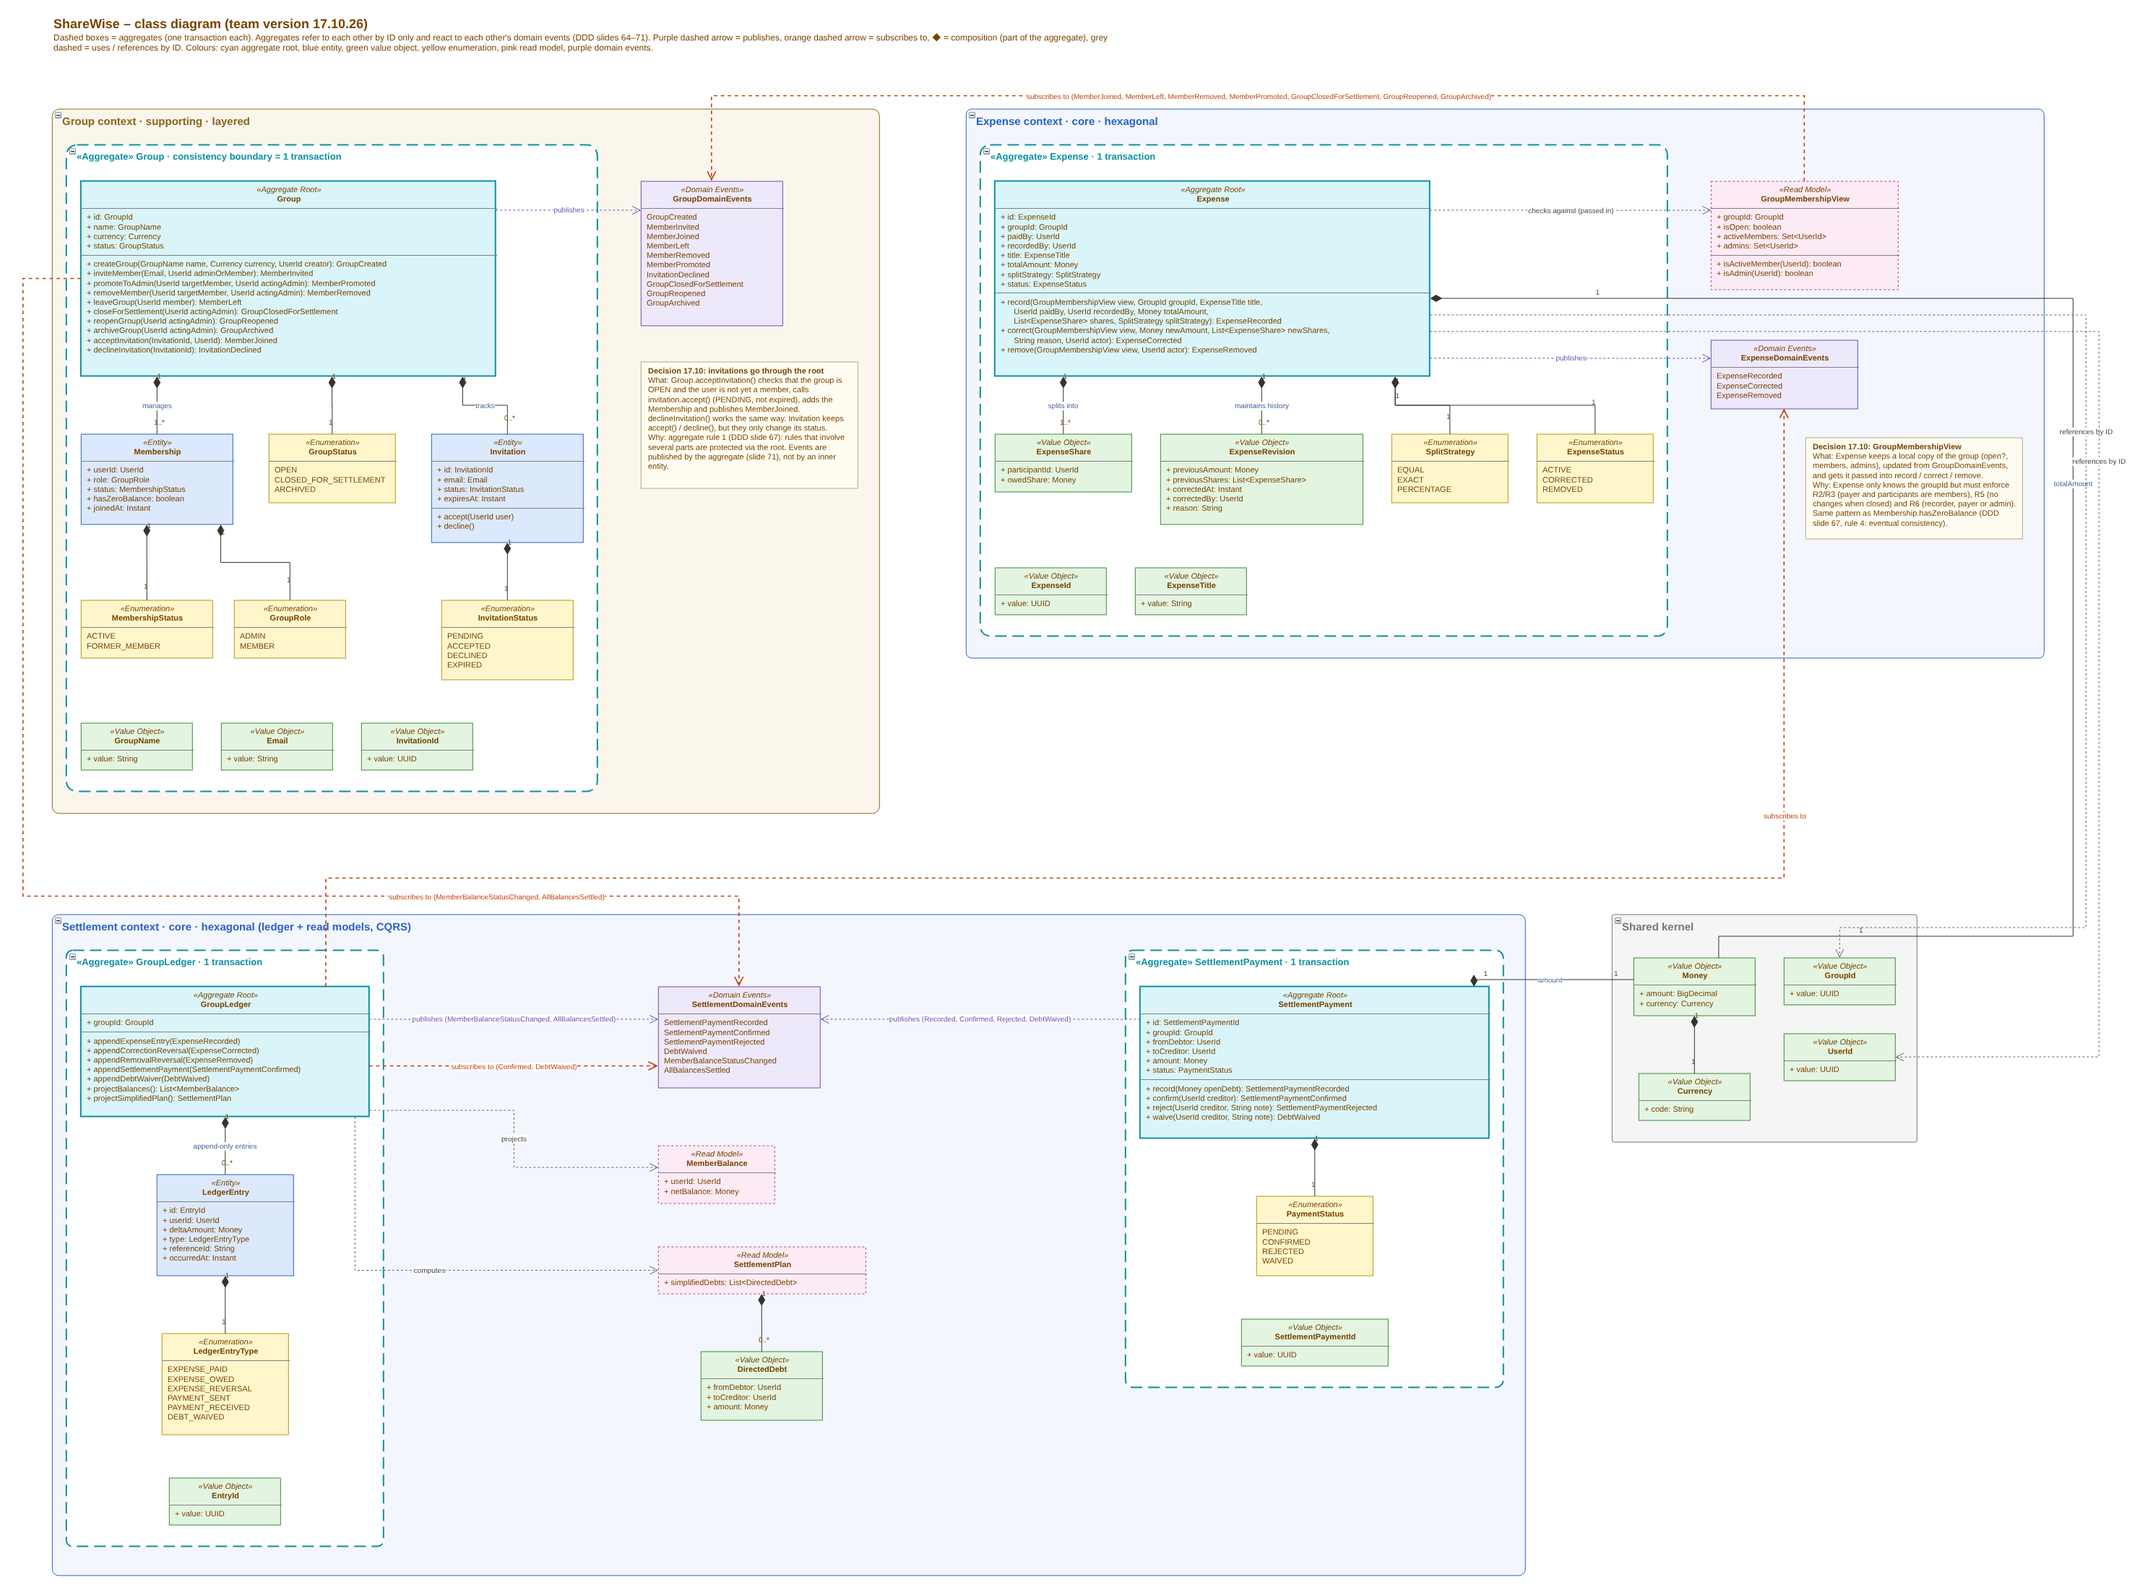
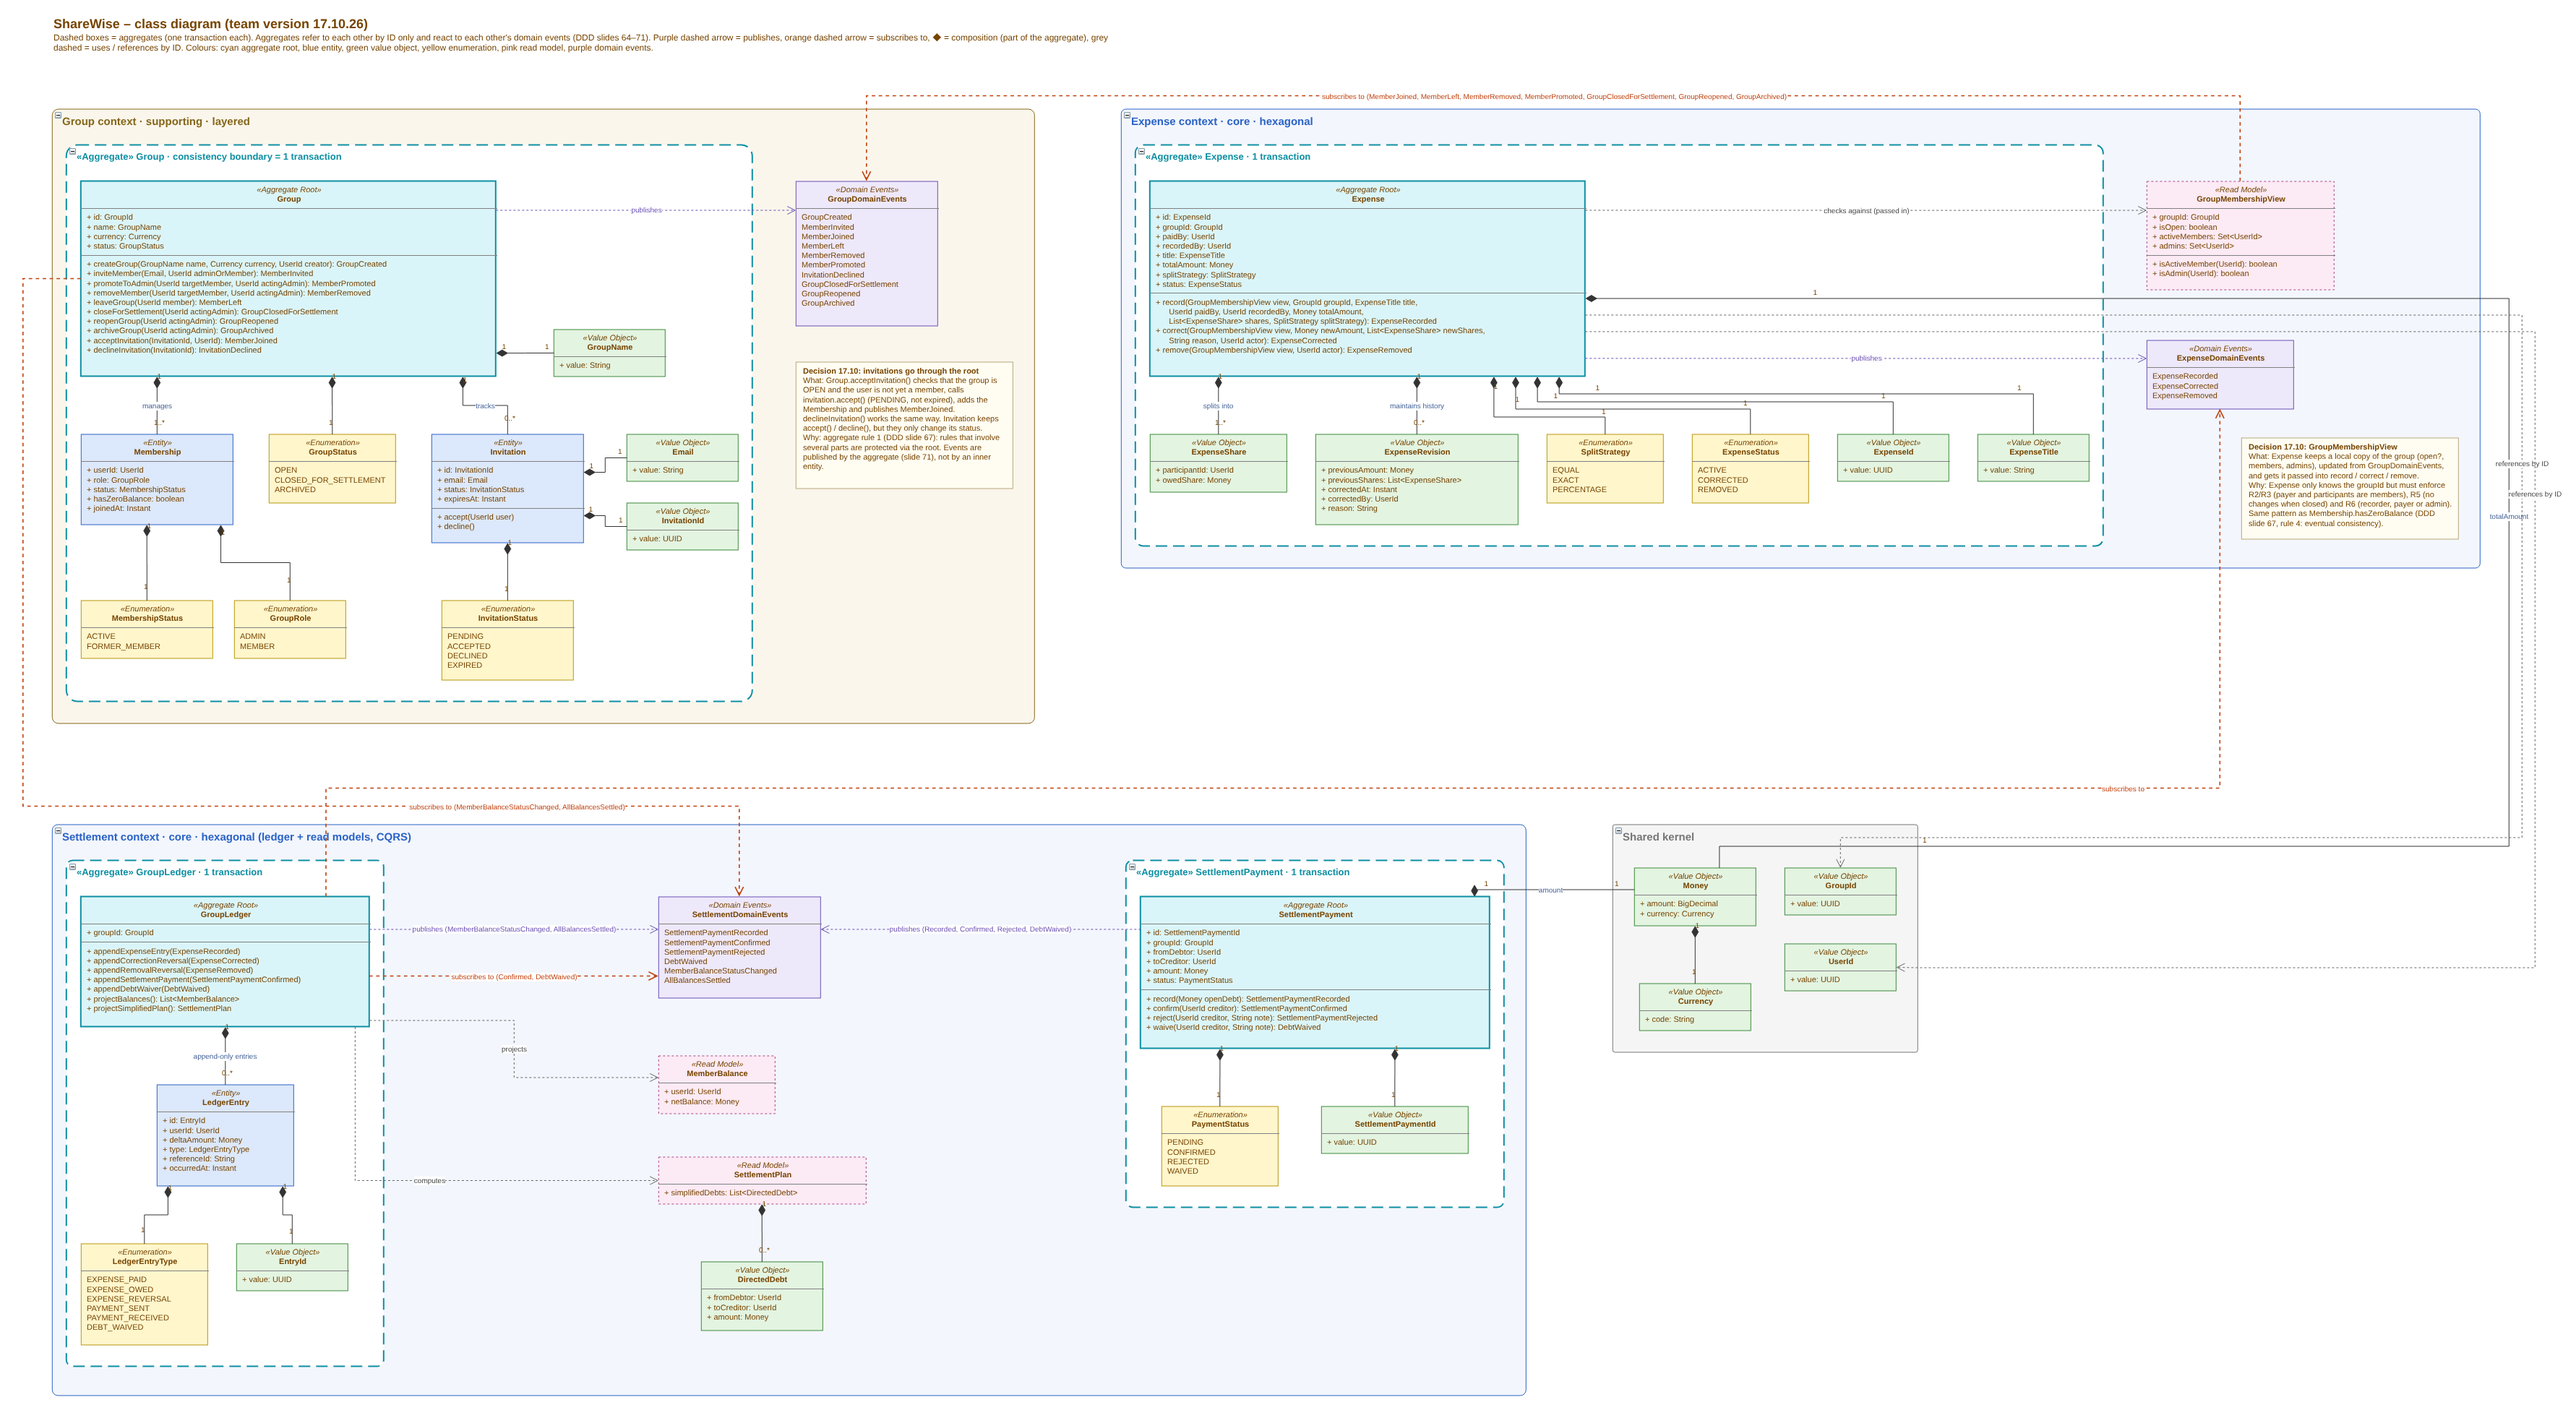
Domain model: connect value objects to the classes that use them
GroupName -> Group, Email and InvitationId -> Invitation, ExpenseId and
ExpenseTitle -> Expense, EntryId -> LedgerEntry, SettlementPaymentId ->
SettlementPayment (Currency -> Money already). Boxes moved next to their
owners; Expense row lines get separate entry points and levels.

Claude-Session: https://claude.ai/code/session_01XWcDcA4MpQE7WFgrEA8CzJ

diff --git a/work/tools/gen_team_diagram.py b/work/tools/gen_team_diagram.py
@@ -182,6 +182,45 @@ def comp(part, whole, label="", mult=("1", "1")):
     edge(part, whole, COMP, label, exit=(0.5, 0), entry=(fx, 1), mult=mult)
 
 
+def comp_row(parts, whole, labels=None, mults=None):
+    """Compositions from a row of parts up into one whole: every line gets its own entry point and its own
+    horizontal level, so lines that have to move sideways never overlap or cross."""
+    wx, wy, ww, wh = box[whole]
+    lo, hi = wx + 0.06 * ww, wx + 0.94 * ww
+    centers = [box[p][0] + box[p][2] / 2 for p in parts]
+    # entry x: straight above the part where possible, otherwise packed 30px apart from the right end
+    entries, used = [], hi + 30
+    for cx in reversed(centers):
+        ex = min(cx, hi, used - 30)
+        entries.insert(0, max(lo, ex)); used = entries[0]
+    top = min(box[p][1] for p in parts)
+    k = 0
+    for i, p in enumerate(parts):
+        cx, ex = centers[i], entries[i]
+        lbl = (labels or {}).get(p, ""); m = (mults or {}).get(p, ("1", "1"))
+        if abs(cx - ex) < 2:
+            edge(p, whole, COMP, lbl, exit=(0.5, 0), entry=((ex - wx) / ww, 1), mult=m)
+        else:
+            k += 1
+    # parts that need a sideways step: the further right, the higher the step (no crossings)
+    side_parts = [i for i in range(len(parts)) if abs(centers[i] - entries[i]) >= 2]
+    n = len(side_parts)
+    for rank, i in enumerate(side_parts):
+        p = parts[i]; cx, ex = centers[i], entries[i]
+        gap_top, gap_bot = wy + wh + 14, top - 14
+        y = gap_bot - (gap_bot - gap_top) * (rank + 1) / (n + 1)
+        lbl = (labels or {}).get(p, ""); m = (mults or {}).get(p, ("1", "1"))
+        edge(p, whole, COMP, lbl, exit=(0.5, 0), entry=((ex - wx) / ww, 1), points=[(cx, y), (ex, y)], mult=m)
+
+
+def side(part, whole, fy=None):
+    """Composition from a part placed to the right of its whole: horizontal line into the whole's right side."""
+    px, py, pw, ph = box[part]; wx, wy, ww, wh = box[whole]
+    y = py + ph / 2
+    fy = fy if fy is not None else min(0.95, max(0.05, (y - wy) / wh))
+    edge(part, whole, COMP, "", exit=(0, 0.5), entry=(1, fy), mult=("1", "1"))
+
+
 def center_under(parent_name, w):
     x, _, pw, _ = box[parent_name]
     return x + (pw - w) / 2
@@ -205,12 +244,12 @@ cls("MembershipStatus", "AG", 20, r3)
 cls("GroupRole", "AG", 20 + msw + 30, r3)
 isw, _ = size("InvitationStatus")
 cls("InvitationStatus", "AG", int(center_under("Invitation", isw) - box["AG"][0]), r3)
-r4 = r3 + max(msh, size("InvitationStatus")[1]) + 60
-x = 20
-for nm in ("GroupName", "Email", "InvitationId"):
-    w, _ = cls(nm, "AG", x, r4); x += w + 40
-ag_w = max(20 + gw, 20 + mw + GAP + sw + GAP + iw, x - 40) + 20
-ag_h = r4 + max(size(nm)[1] for nm in ("GroupName", "Email", "InvitationId")) + 30
+gnw, gnh = cls("GroupName", "AG", 20 + gw + 80, 50 + gh - gnh_ if (gnh_ := size("GroupName")[1]) else 0)
+inv_x = 20 + mw + GAP + sw + GAP
+emw, emh = cls("Email", "AG", inv_x + iw + 60, r2)
+idw, idh = cls("InvitationId", "AG", inv_x + iw + 60, r2 + emh + 30)
+ag_w = max(20 + gw + 80 + gnw, inv_x + iw + 60 + max(emw, idw)) + 20
+ag_h = r3 + max(msh, size("InvitationStatus")[1]) + 30
 cells[[i for i, c in enumerate(cells) if 'id="AG"' in c][0]] = cells[[i for i, c in enumerate(cells) if 'id="AG"' in c][0]].replace('width="10" height="10"', f'width="{ag_w}" height="{ag_h}"')
 box["AG"] = (box["AG"][0], box["AG"][1], ag_w, ag_h)
 gdw, gdh = cls("GroupDomainEvents", "G", 20 + ag_w + 60, 100)
@@ -234,6 +273,9 @@ comp("Invitation", "Group", "tracks", ("0..*", "1"))
 comp("MembershipStatus", "Membership")
 comp("GroupRole", "Membership")
 comp("InvitationStatus", "Invitation")
+side("GroupName", "Group")
+side("Email", "Invitation", 0.35)
+side("InvitationId", "Invitation", 0.75)
 gx, gy, gw_, gh_ = box["Group"]; ex_, ey_, ew_, eh_ = box["GroupDomainEvents"]
 edge("Group", "GroupDomainEvents", PUB, "publishes", exit=(1, (ey_ + 40 - gy) / gh_), entry=(0, 40 / eh_))
 
@@ -244,15 +286,11 @@ container("AE", "E", 20, 50, 10, 10, "«Aggregate» Expense · 1 transaction", *
 xw, xh = cls("Expense", "AE", 20, 50)
 r2 = 50 + xh + ROWGAP
 x = 20
-for nm in ("ExpenseShare", "ExpenseRevision", "SplitStrategy", "ExpenseStatus"):
+ROW2 = ("ExpenseShare", "ExpenseRevision", "SplitStrategy", "ExpenseStatus", "ExpenseId", "ExpenseTitle")
+for nm in ROW2:
     w, _ = cls(nm, "AE", x, r2); x += w + 40
-row2_w = x - 40
-r3 = r2 + max(size(nm)[1] for nm in ("ExpenseShare", "ExpenseRevision", "SplitStrategy", "ExpenseStatus")) + 60
-x = 20
-for nm in ("ExpenseId", "ExpenseTitle"):
-    w, _ = cls(nm, "AE", x, r3); x += w + 40
-ae_w = max(20 + xw, row2_w, x - 40) + 20
-ae_h = r3 + max(size(nm)[1] for nm in ("ExpenseId", "ExpenseTitle")) + 30
+ae_w = max(20 + xw, x - 40) + 20
+ae_h = r2 + max(size(nm)[1] for nm in ROW2) + 30
 i = [k for k, c in enumerate(cells) if 'id="AE"' in c][0]
 cells[i] = cells[i].replace('width="10" height="10"', f'width="{ae_w}" height="{ae_h}"'); box["AE"] = (box["AE"][0], box["AE"][1], ae_w, ae_h)
 RC = 20 + ae_w + 60                                  # right column of the Expense context
@@ -273,10 +311,8 @@ e_h = max(50 + ae_h, NY + NH) + 30
 i = [k for k, c in enumerate(cells) if 'id="E"' in c][0]
 cells[i] = cells[i].replace('width="10" height="10"', f'width="{e_w}" height="{e_h}"'); box["E"] = (E0[0], E0[1], e_w, e_h)
 
-comp("ExpenseShare", "Expense", "splits into", ("1..*", "1"))
-comp("ExpenseRevision", "Expense", "maintains history", ("0..*", "1"))
-comp("SplitStrategy", "Expense")
-comp("ExpenseStatus", "Expense")
+comp_row(list(ROW2), "Expense", labels={"ExpenseShare": "splits into", "ExpenseRevision": "maintains history"},
+         mults={"ExpenseShare": ("1..*", "1"), "ExpenseRevision": ("0..*", "1")})
 xx, xy, xw_, xh_ = box["Expense"]; ex_, ey_, ew_, eh_ = box["ExpenseDomainEvents"]
 y_pub = (max(xy, ey_) + min(xy + xh_, ey_ + eh_)) / 2           # level where Expense and its events box overlap
 edge("Expense", "ExpenseDomainEvents", PUB, "publishes", exit=(1, (y_pub - xy) / xh_), entry=(0, (y_pub - ey_) / eh_))
@@ -295,12 +331,11 @@ container("AL", "S", 20, 50, 10, 10, "«Aggregate» GroupLedger · 1 transaction
 lw, lh = cls("GroupLedger", "AL", 20, 50)
 lew, leh = size("LedgerEntry")
 cls("LedgerEntry", "AL", int(20 + (lw - lew) / 2), 50 + lh + ROWGAP)
-ltw, lth = size("LedgerEntryType")
-cls("LedgerEntryType", "AL", int(20 + (lw - ltw) / 2), 50 + lh + ROWGAP + leh + ROWGAP)
-eiw, eih = size("EntryId")
-y_ei = 50 + lh + ROWGAP + leh + ROWGAP + lth + 60
-cls("EntryId", "AL", int(20 + (lw - eiw) / 2), y_ei)
-al_w, al_h = lw + 40, y_ei + eih + 30
+ltw, lth = size("LedgerEntryType"); eiw, eih = size("EntryId")
+r3l = 50 + lh + ROWGAP + leh + ROWGAP
+cls("LedgerEntryType", "AL", 20, r3l)
+cls("EntryId", "AL", 20 + ltw + 40, r3l)
+al_w, al_h = lw + 40, r3l + max(lth, eih) + 30
 i = [k for k, c in enumerate(cells) if 'id="AL"' in c][0]
 cells[i] = cells[i].replace('width="10" height="10"', f'width="{al_w}" height="{al_h}"'); box["AL"] = (box["AL"][0], box["AL"][1], al_w, al_h)
 
@@ -316,12 +351,11 @@ mid_w = max(sde_w, mbw, spw, ddw)
 AP_X = MID + mid_w + 360
 container("AP", "S", AP_X, 50, 10, 10, "«Aggregate» SettlementPayment · 1 transaction", *AGG, dashed=True)
 pw, ph = cls("SettlementPayment", "AP", 20, 50)
-psw, psh = size("PaymentStatus")
-cls("PaymentStatus", "AP", int(20 + (pw - psw) / 2), 50 + ph + ROWGAP)
-spiw, spih = size("SettlementPaymentId")
-y_spi = 50 + ph + ROWGAP + psh + 60
-cls("SettlementPaymentId", "AP", int(20 + (pw - spiw) / 2), y_spi)
-ap_w, ap_h = pw + 40, y_spi + spih + 30
+psw, psh = size("PaymentStatus"); spiw, spih = size("SettlementPaymentId")
+row_w = psw + 60 + spiw
+cls("PaymentStatus", "AP", int(20 + (pw - row_w) / 2), 50 + ph + ROWGAP)
+cls("SettlementPaymentId", "AP", int(20 + (pw - row_w) / 2) + psw + 60, 50 + ph + ROWGAP)
+ap_w, ap_h = pw + 40, 50 + ph + ROWGAP + max(psh, spih) + 30
 i = [k for k, c in enumerate(cells) if 'id="AP"' in c][0]
 cells[i] = cells[i].replace('width="10" height="10"', f'width="{ap_w}" height="{ap_h}"'); box["AP"] = (box["AP"][0], box["AP"][1], ap_w, ap_h)
 s_w = AP_X + ap_w + 30
@@ -331,8 +365,10 @@ cells[i] = cells[i].replace('width="10" height="10"', f'width="{s_w}" height="{s
 
 comp("LedgerEntry", "GroupLedger", "append-only entries", ("0..*", "1"))
 comp("LedgerEntryType", "LedgerEntry")
+comp("EntryId", "LedgerEntry")
 comp("DirectedDebt", "SettlementPlan", "", ("0..*", "1"))
 comp("PaymentStatus", "SettlementPayment")
+comp("SettlementPaymentId", "SettlementPayment")
 L = box["GroupLedger"]; SDE = box["SettlementDomainEvents"]; MB = box["MemberBalance"]; SP = box["SettlementPlan"]
 P = box["SettlementPayment"]; Sx, Sy = S0
 y1, y2 = SDE[1] + 45, SDE[1] + SDE[3] - 30   # two separate horizontal lanes between GroupLedger and the events box

diff --git a/work/Notes_for_Team.md b/work/Notes_for_Team.md
@@ -14,7 +14,7 @@ Team original: `work/archive/firstdraft_ORIGINAL_team_import.drawio`.
   - New on Group: `declineInvitation(InvitationId): InvitationDeclined`.
   - Invitation keeps `accept()` / `decline()`, but they now only change its status and no longer return events.
   - Before, `Invitation.accept()` returned `MemberJoined`, but it could not create the Membership, and Group had no method for joining.
-- **Value objects for all types the model uses** (decided 17.10). Before, the model used these types but never defined them. Each is now a small «Value Object» box:
+- **Value objects for all types the model uses** (decided 17.10). Before, the model used these types but never defined them. Each is now a small «Value Object» box, connected with ◆ to the class that uses it (GroupName → Group, Email and InvitationId → Invitation, ExpenseId and ExpenseTitle → Expense, EntryId → LedgerEntry, SettlementPaymentId → SettlementPayment, Currency → Money):
   - in the Group aggregate: `GroupName`, `Email`, `InvitationId`
   - in the Expense aggregate: `ExpenseId`, `ExpenseTitle`
   - in the GroupLedger aggregate: `EntryId`
